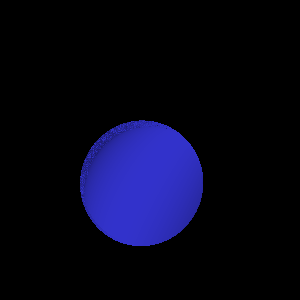
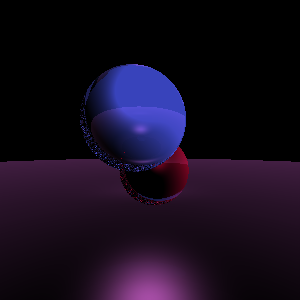
Added illum and multiple objects to newton's method

diff --git a/rayTracingWithNewton.py b/rayTracingWithNewton.py
@@ -1,16 +1,51 @@
 import numpy as np
 import matplotlib.pyplot as plt
-
+import time
 #Define the main color
-mainColor = np.array([0.2, 0.2, 0.8])
+#mainColor = np.array([0.2, 0.2, 0.8])
 
 def normalize(vector):
     return vector / np.linalg.norm(vector)
 
+light_ambient = np.array([0.6,0.6,0.6])
+light_specular = np.array([1,1,1])
+light_diffuse = np.array([1,1,1])
 
 #function of a sphere
-def f(v):
-    return (v[0] - 0)**2 + (v[1]-0.5)**2 + (v[2]+1)**2 - 0.8**2
+def f1(v):
+    return (v[0] + 0.1)**2 + (v[1]-0.5)**2 + (v[2]+1)**2 - 0.7**2
+
+def f2(v):
+    return (v[0] - 0.2)**2 + (v[1]+0.3)**2 + (v[2]+2)**2 - 0.7**2
+
+def f3(v):
+    return (v[0] - 0)**2 + (v[1]+1000)**2 + (v[2]+0)**2 - 999**2
+
+def get_illum(func):
+    #ambient, diffuse, specular, shininess, reflection
+    if func == f1:
+        return np.array([1,1,1]), np.array([1,1,1]), np.array([1,1,1]) , 80, 0.4
+    if func == f2:
+        return np.array([1,1,1]), np.array([1,1,1]), np.array([1,1,1]) , 80, 0.4
+    if func == f3:
+        return np.array([0.7,0.7,0.7]), np.array([0.6,0.6,0.6]), np.array([1,1,1]) , 80, 0.1
+    
+def get_color(func):
+    if func == f1:
+        return np.array([57/256, 68/256, 188/256])
+    if func == f2:
+        return np.array([123/256, 6/256, 35/256])
+    if func == f3:
+        return np.array([150/256, 70/256, 150/256])
+    
+def get_center(func):
+    if func == f1:
+        return np.array([-0.10, +0.5, -1])
+    if func == f2:
+        return np.array([0.2, -0.3, -2])
+    if func == f3:
+        return np.array([0, -1000, 0])
+
 
 #derrivatives 
 def dfdx(v):
@@ -25,7 +60,7 @@ def newton(f,Df,x0,epsilon,max_iter):
     xn = x0
     for n in range(0,max_iter):
         fxn = f(xn)
-       
+
         if abs(fxn) < epsilon:
             return xn
         Dfxn = Df(xn)
@@ -56,7 +91,7 @@ def reflection(v, T, lightOrigin, dfdx, dfdy, dfdz):
         print("the is a negative angle")
     return result
 
-def rayrayray(f,dfdx, dfdy, dfdz, originPointT0, directionV, lightOrigin):
+def rayrayray(f,dfdx, dfdy, dfdz, originPointT0, directionV, lightOrigin, cumulative_reflection):
     
     #directionV - > the direction of the camera
     #g(t) = f(x0 + a*t, y0 + b*t, z0+ + c*t)
@@ -73,8 +108,8 @@ def rayrayray(f,dfdx, dfdy, dfdz, originPointT0, directionV, lightOrigin):
     )
 
     #number of iterations
-    it=0;
-    itMax=250;
+    it=0
+    itMax=250
 
 
     stepsize=0.1
@@ -106,6 +141,8 @@ def rayrayray(f,dfdx, dfdy, dfdz, originPointT0, directionV, lightOrigin):
         prevSign=currSign
         currSign=sign(f, newPoint)
 
+        u = 0
+        betterPoint = newPoint
         if currSign != prevSign:
             
             #we start at the middle of the interval t=(t1+t2)/2 following the instructions in the pdf
@@ -113,7 +150,6 @@ def rayrayray(f,dfdx, dfdy, dfdz, originPointT0, directionV, lightOrigin):
 
             #returns the exact point
             u = newton(g, gdot, startOfApproximation, 1e-10, 100)
-
             betterPoint = originPointT0 + u*directionV
             
             #Here should send another ray
@@ -125,14 +161,23 @@ def rayrayray(f,dfdx, dfdy, dfdz, originPointT0, directionV, lightOrigin):
             break
             
     black = np.array([0.0, 0.0, 0.0])
+    colorToAdd = np.array([0.0, 0.0, 0.0])
+    ambient, diffuse, specular, shininess, obj_reflection = get_illum(f)
+    colorToAdd += ambient * light_ambient
+
+    normal = normalize(betterPoint - get_center(f))
+    intersection_to_light = normalize(lightOrigin - betterPoint)
+    colorToAdd += diffuse * light_diffuse * np.dot(intersection_to_light,normal)
+    intersection_to_cam = camera - betterPoint
+    cam_to_light = normalize(betterPoint + intersection_to_cam)
+    colorToAdd += specular * light_specular * np.dot(normal, cam_to_light) ** (shininess/4)
     #if there has been an intersection, adjust the color by multiplying with the angle? Not sure how smart it is
     if intersection ==1 :
-        print(angle)
-        return angle * mainColor
+        #print(angle)
+        #return angle * mainColor, betterPoint
+        return get_color(f) * np.clip(colorToAdd, 0, 1) * cumulative_reflection, betterPoint, obj_reflection
     else:
-        return black
-            
-
+        return black, np.array([np.inf, np.inf, np.inf]), 1
 
 width = 300
 height = 300
@@ -149,14 +194,43 @@ lightOrigin = np.array([5,3,1])
 width_pos = [-1, 1] #minimum and maximum width
 height_pos = [-ratio, ratio] #minimum and maximum height
 
+functions = [f1, f2, f3]
+start_time = time.time()
 for i, y in enumerate(np.linspace(height_pos[0], height_pos[1], height)):
     for j, x in enumerate(np.linspace(width_pos[0], width_pos[1], width)):
         pixel = np.array([x, y, 0])
         origin = camera
         direction = normalize(pixel - origin)
+        cumulative_reflection = 1
+        for bounce in range(5):
+            t_min = np.inf
+            f_min = 0
+            point_min = 0
+            for func in functions:
+                colorToBePlaced, betterPoint, _ = rayrayray(func, dfdx, dfdy, dfdz, camera, direction, lightOrigin, cumulative_reflection)
+                temp = np.linalg.norm(betterPoint - origin)
+                if temp < t_min and temp != np.inf:
+                    t_min = temp 
+                    f_min = func
+                    point_min = betterPoint
+                # if(f_min == f3):
+                #     print(f_min)
+                # print(point_min)
+            #print(t_min)
+            if f_min != 0:
+                colorToBePlaced, betterPoint, obj_reflection = rayrayray(f_min, dfdx, dfdy, dfdz, camera, direction, lightOrigin, cumulative_reflection)
+                cumulative_reflection *= obj_reflection
+            else:
+                colorToBePlaced = np.array([0,0,0])
+            # colorToBePlaced, t = rayrayray(f1, dfdx, dfdy, dfdz, camera, direction, lightOrigin)
+            if(f_min != 0):
+                normal = normalize(betterPoint - get_center(f_min))
+                direction = direction - 2 * np.dot(direction, normal) * normal
+                origin = betterPoint
+            pixels[width-i-1, j-1] += colorToBePlaced
+            if(f_min == 0):
+                break
 
-        colorToBePlaced=rayrayray(f, dfdx, dfdy, dfdz, camera, direction, lightOrigin)
-        
-        pixels[i, j] = colorToBePlaced
-
+print("time taken: ", time.time() - start_time)
 plt.imsave('C2.png', pixels)
+print("time taken: ", time.time() - start_time)

diff --git a/raytracing.py b/raytracing.py
@@ -6,8 +6,8 @@ import math
 
 
 def rayrayray(cameraOrigin):
-    it=0;
-    itMax=250;
+    it=0
+    itMax=250
     stepsize=0.1
     t=stepsize
     while(it<itMax):
@@ -42,7 +42,7 @@ max_bounce = 4
 for i, y in enumerate(np.linspace(height_pos[0], height_pos[1], height)[1:]):
     for j, x in enumerate(np.linspace(width_pos[0], width_pos[1], width)[1:]):
         new_pixel = np.array([x,y,0])
-        #np.append(pixels, new_pixel)
+        np.append(pixels, new_pixel)
         start = camera
         line_direction = new_pixel - start
         
@@ -68,7 +68,7 @@ for i, y in enumerate(np.linspace(height_pos[0], height_pos[1], height)[1:]):
             
 
            # pixels[width - i - 1, j - 1] = ray.color
-        pixels[width-i-1, j-1] =rayrayray
+        pixels[width-i-1, j-1] =rayrayray(1)
 
 #print(pixels)
 plt.imsave('testMilos.png', pixels)
